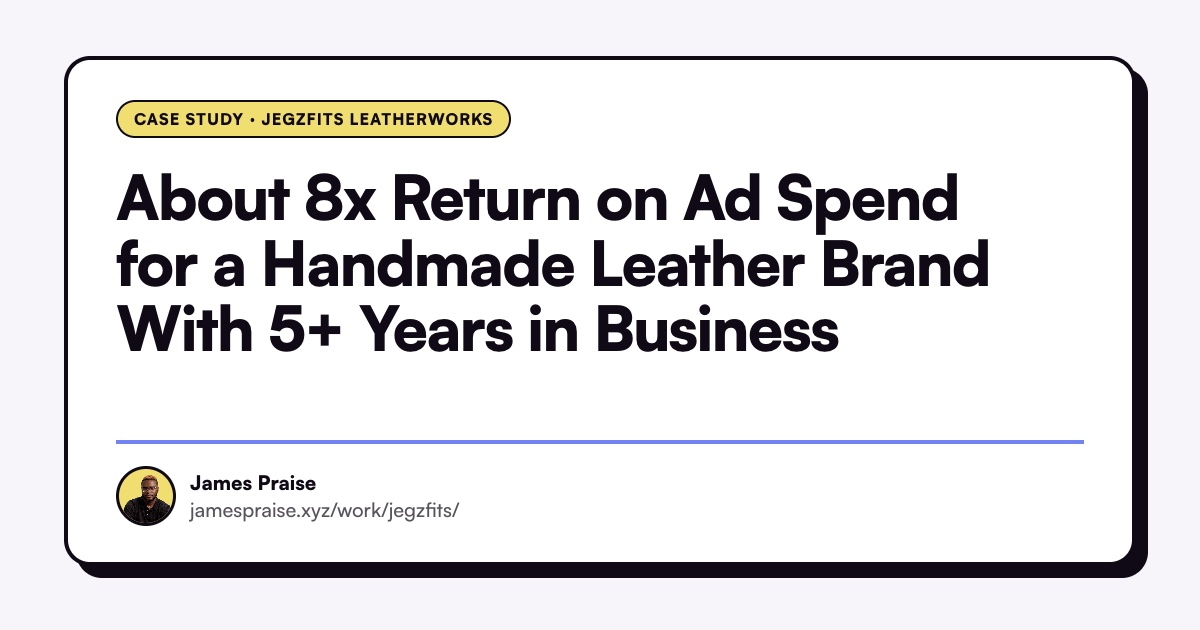
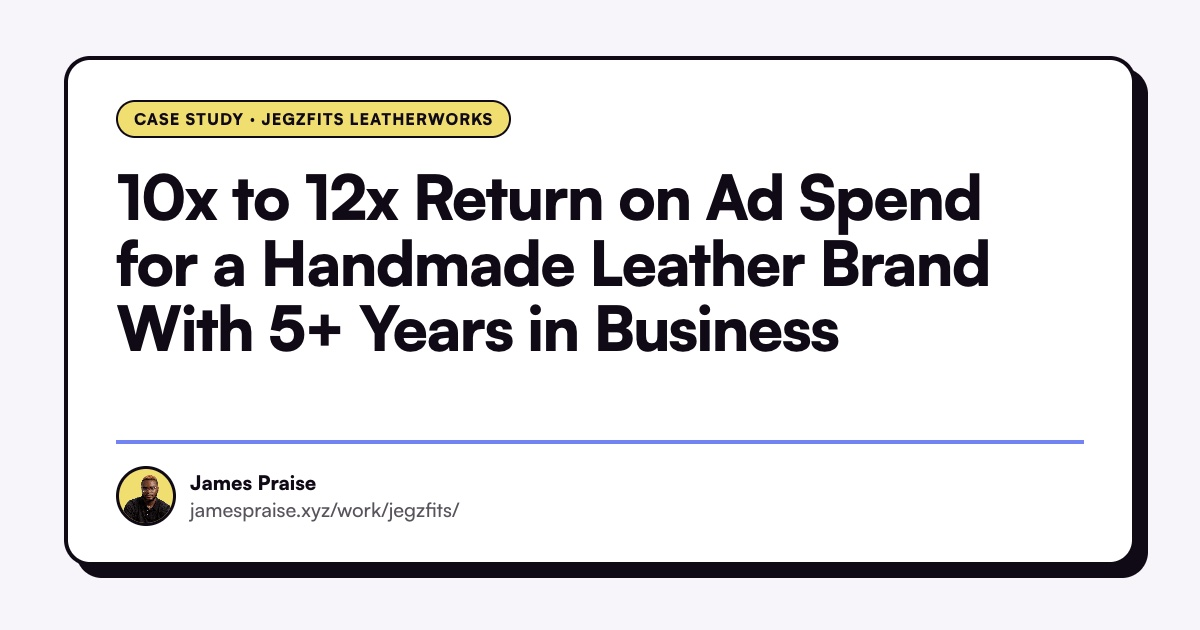
JegzFits case study: use the jegzfits.com hero image; refresh share card to 10x to 12x

Changed region(s): [[0.0925, 0.2714, 0.8325, 0.3921]]

diff --git a/work/jegzfits/index.html b/work/jegzfits/index.html
@@ -20,11 +20,11 @@ j=d.createElement(s),dl=l!='dataLayer'?'&l='+l:'';j.async=true;j.src=
 <meta property="og:title" content="JegzFits Leatherworks — James Praise" />
 <meta property="og:description" content="How James Praise runs paid acquisition for JegzFits Leatherworks, a handmade leather goods brand in Nigeria, at 10x to 12x return on ad spend." />
 <meta property="og:url" content="https://jamespraise.xyz/work/jegzfits/" />
-<meta property="og:image" content="https://jamespraise.xyz/assets/images/og/work/jegzfits.jpg?v=20261024" />
+<meta property="og:image" content="https://jamespraise.xyz/assets/images/og/work/jegzfits.jpg?v=20261119" />
 <meta name="twitter:card" content="summary_large_image" />
 <meta name="twitter:title" content="JegzFits Leatherworks — James Praise" />
 <meta name="twitter:description" content="How James Praise runs paid acquisition for JegzFits Leatherworks, a handmade leather goods brand in Nigeria, at 10x to 12x return on ad spend." />
-<meta name="twitter:image" content="https://jamespraise.xyz/assets/images/og/work/jegzfits.jpg?v=20261024" />
+<meta name="twitter:image" content="https://jamespraise.xyz/assets/images/og/work/jegzfits.jpg?v=20261119" />
 <link rel="preconnect" href="https://api.fontshare.com">
 <link href="https://api.fontshare.com/v2/css?f[]=satoshi@400,500,700,900&display=swap" rel="stylesheet">
 <link rel="stylesheet" href="/styles.css?v=23" />
@@ -102,7 +102,7 @@ height="0" width="0" style="display:none;visibility:hidden"></iframe></noscript>
           <p class="cs-subhead reveal-blur">JegzFits Leatherworks makes handmade leather goods in Nigeria. I have run its growth and acquisition on Meta and TikTok since 2021, and return on ad spend has risen as spend grew.</p>
 
           <div class="cs-shot reveal-blur">
-            <img class="cs-shot-img" src="/assets/images/case-studies/jegzfits/loafers.jpg" alt="A handmade JegzFits black leather loafer with a gold horsebit buckle, held in front of the JegzFits sign" style="object-position: center 40%;" />
+            <img class="cs-shot-img" src="/assets/images/case-studies/jegzfits/hero-mule.jpg" alt="A handmade JegzFits black croc-print leather mule with a silver horsebit buckle, held in hand, from the jegzfits.com home page" style="object-position: center 45%;" />
           </div>
 
           <div class="cs-stats">

diff --git a/work/index.html b/work/index.html
@@ -241,7 +241,7 @@ height="0" width="0" style="display:none;visibility:hidden"></iframe></noscript>
           </a>
 
           <a class="case-study-card-v2 card-lift" data-tags="client" data-service="growth-experiments paid-acquisition" href="/work/jegzfits/">
-            <div class="csc-thumb"><img src="/assets/images/case-studies/jegzfits/loafers.jpg" alt="" loading="lazy" style="object-position: center 40%;" /></div>
+            <div class="csc-thumb"><img src="/assets/images/case-studies/jegzfits/hero-mule.jpg" alt="" loading="lazy" style="object-position: center 45%;" /></div>
             <div class="csc-body">
               <div class="csc-tag">Paid Acquisition</div>
               <h3 class="csc-headline"><strong>10x to 12x return on ad spend:</strong> JegzFits Leatherworks' Meta and TikTok engine</h3>
